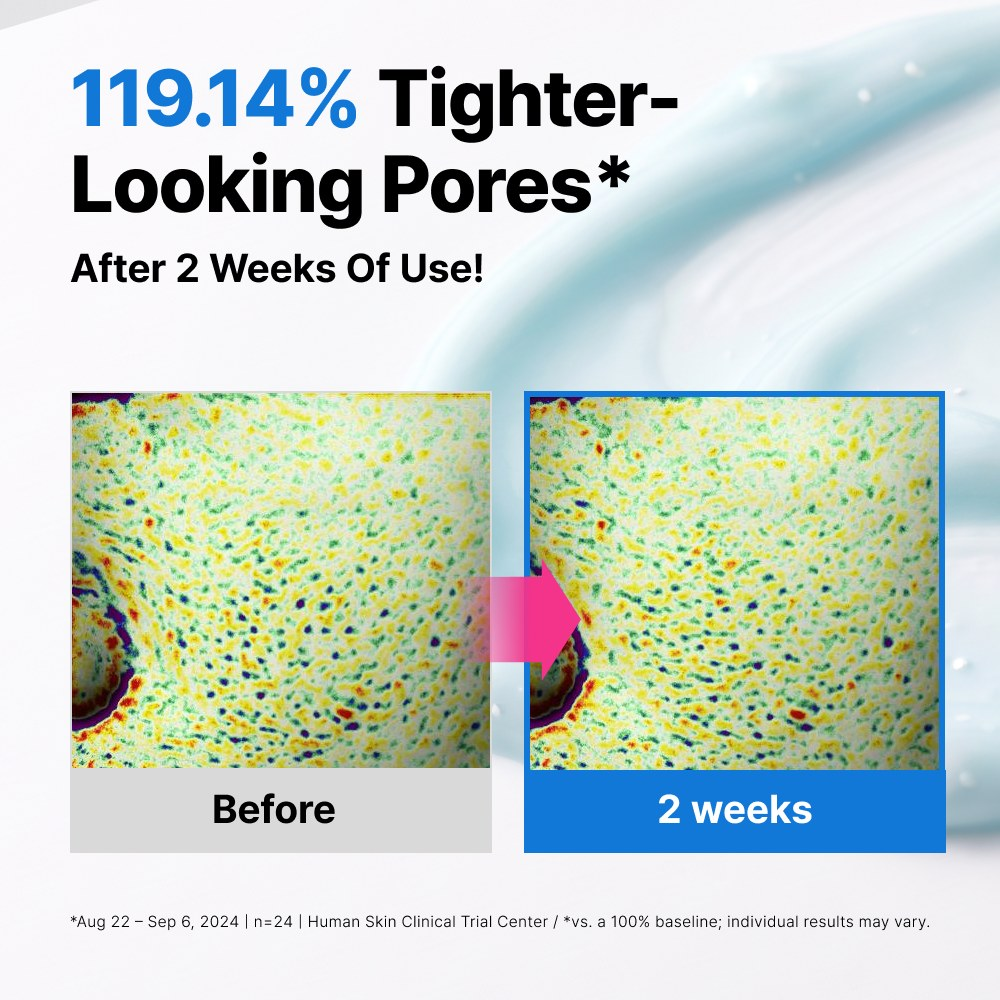
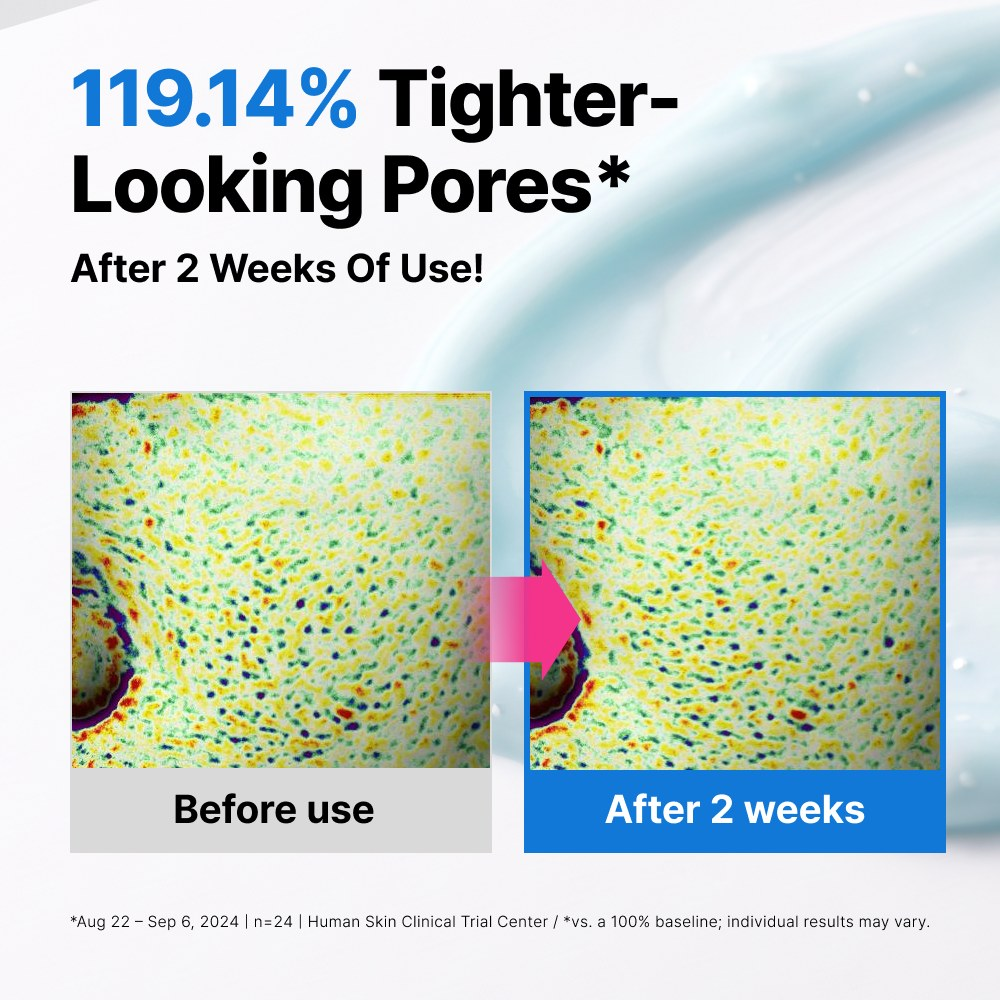
Unify Before use/After labels across TikTok cuts; add VitC clinical and final sunscreen set
Claude-Session: https://claude.ai/code/session_01XW4Q4mdJiXhcvM3Uso45jz

diff --git a/index.html b/index.html
@@ -637,11 +637,11 @@ function introHTML(id){
 const TIKTOK=[
   {name:"PDRN+ Energy Boost Pad", ko:"PDRN+ 에너지 부스트 패드", dir:"pdrn", n:6},
   {name:"NAD Tablet Cloud Serum Mask Kit", ko:"나드 타블렛 클라우드 세럼 마스크 키트", dir:"nad", n:5},
-  {name:"Vitamin C 15% Super Blast Ampoule", ko:"비타민C 15% 슈퍼 블라스트 앰플", dir:"vitc15", n:4},
+  {name:"Vitamin C 15% Super Blast Ampoule", ko:"비타민C 15% 슈퍼 블라스트 앰플", dir:"vitc15", n:5},
   {name:"Super Hydra Ampoule Vitamin C 10%", ko:"슈퍼 하이드라 앰플 비타민C 10%", dir:"hydra10", n:5},
   {name:"Cerachiol™ Crush Cream", ko:"세라치올™ 크러시 크림", dir:"cera", n:5},
   {name:"Berry Smoothie Scrub Cleanser", ko:"베리 스무디 스크럽 클렌저", dir:"berry", n:7},
-  {name:"Non-Nano Hyper Shield Sunscreen", ko:"논-나노 하이퍼 실드 선스크린", dir:"sun", n:6},
+  {name:"Non-Nano Hyper Shield Sunscreen", ko:"논-나노 하이퍼 실드 선스크린", dir:"sun", n:7},
   {name:"Pineapple PDRN Melting Peel Cleanser", ko:"파인애플 PDRN 멜팅 필 클렌저", dir:"pine", n:6}
 ];
 function tiktokHTML(){
